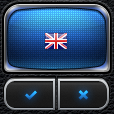
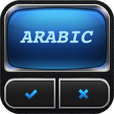
changes for submission

diff --git a/wordrace/Constants.h b/wordrace/Constants.h
@@ -10,8 +10,8 @@
 #define LANGUAGE [NSString stringWithFormat:@"turkish"]
 #define BUILDDATABASEMODE NO
 
-#define ALERTVIEW_CANCELBUTTON_TITLE @"حسناً"
-#define ALERTVIEW_ERROR_TITLE @"خطأّ!"
+#define ALERTVIEW_CANCELBUTTON_TITLE @"OK"
+#define ALERTVIEW_ERROR_TITLE @"ERROR!"
 
 #define FACEBOOK_APPID @"107620642677158"
 #define FACEBOOK_APPSECRET @"7b4e98effc1afdafae4abd97a066d363"
@@ -22,45 +22,44 @@
 #define APP_LINK @"http://bit.ly/q2J2Pf"
 #define APP_PICTURE_LINK @"http://bebeksel.net/ingilizceky.jpg"
 
-#define TWITTERMESSAGE @"قمت بإحراز %i على #سباق الكلمات الإنجليزية (%@) ووصلت إلى المستوى %i حمل هن %@"
-#define FACEBOOKMESSAGE @"قمت بإحراز %i على #سباق الكلمات الإنجليزية (%@) ووصلت إلى المستوى %i حمل هن %@"
+#define TWITTERMESSAGE @"I've scored %i on #ifunarabic (%@) and reached level %i. Download here - %@"
+#define FACEBOOKMESSAGE @"I've scored %i on #ifunarabic (%@) and reached level %i. Download here - %@"
 #define FACEBOOKDESCRIPTION @""
 
-#define WELCOMEVC_GAMENAME @"سباق الكلمة الإنجليزية"
-#define WELCOMEVC_PLAYBUTTON_TITLE @"العب"
-#define WELCOMEVC_LEVELBUTTON_TITLE @"اختر المستوى"
-#define WELCOMEVC_SCORESBUTTON_TITLE @"المتصدرون"
+#define WELCOMEVC_GAMENAME @"iFun Arabic"
+#define WELCOMEVC_PLAYBUTTON_TITLE @"Play"
+#define WELCOMEVC_LEVELBUTTON_TITLE @"Level"
+#define WELCOMEVC_SCORESBUTTON_TITLE @"Leaderboard"
 
-#define SELECTLEVEL_NAVIGATIONBAR_TITLE @"اختر المستوى"
-#define SELECTLEVEL_LEVEL_TITLE @"مستوى"
+#define SELECTLEVEL_NAVIGATIONBAR_TITLE @"Choose Level"
+#define SELECTLEVEL_LEVEL_TITLE @"Level"
 
-#define LEADERBOARD_NAVIGATIONBAR_TITLE @"المتصدرون"
+#define LEADERBOARD_NAVIGATIONBAR_TITLE @"Leaderboard"
 
-#define GAMEMODE_NAVIGATIONBAR_TITLE @"وضعية اللعبة"
-#define GAMEMODE_THREELIVES_TITLE @"الثلاثة أرواح"
-#define GAMEMODE_VSTHECLOCK_TITLE @"ضد الساعة"
-#define GAMEMODE_SUDDENDEATH_TITLE @"الموت المفاجئ"
+#define GAMEMODE_NAVIGATIONBAR_TITLE @"Game Mode"
+#define GAMEMODE_THREELIVES_TITLE @"Three Lives"
+#define GAMEMODE_VSTHECLOCK_TITLE @"VS The Clock"
+#define GAMEMODE_SUDDENDEATH_TITLE @"Sudden Death"
 
-#define PAUSEVC_NAVIGATIONBAR_TITLE @"إيقاف مؤقت"
-#define PAUSEVC_RESUME_TITLE @"استئناف"
-#define PAUSEVC_RESTART_TITLE @"إعادة البدء"
-#define PAUSEVC_GOTOMAINMENU_TITLE @"القائمة الرئيسية"
+#define PAUSEVC_NAVIGATIONBAR_TITLE @"Pause"
+#define PAUSEVC_RESUME_TITLE @"Resume"
+#define PAUSEVC_RESTART_TITLE @"Restart"
+#define PAUSEVC_GOTOMAINMENU_TITLE @"Main Menu"
 
-#define GAMEOVER_NAVIGATIONBAR_TITLE @"انتهت اللعبة"
-#define GAMEOVER_NAMELABEL_TITLE @"الاسم"
-#define GAMEOVER_SCORELABEL_TITLE @"النقاط"
-#define GAMEOVER_HIGHSCORELABEL_TITLE @"نقاط عالية"
-#define GAMEOVER_RESTARTLABEL_TITLE @"إعادة البدء"
-#define GAMEOVER_SCORESLABEL_TITLE @"المتصدرون"
-#define GAMEOVER_GOTOMAINMENULABEL_TITLE @"القائمة الرئيسية"
-#define GAMEOVER_MOREGAMESLABEL_TITLE @"ألعاب أخرى"
-#define GAMEOVER_SHARED_ON_FACEBOOK_ALERT_MESSAGE @"تمت مشاركته على الفيسبوك"
-#define GAMEOVER_SHARED_ON_TWITTER_ALERT_MESSAGE @"تمت مشاركته على تويتر"
+#define GAMEOVER_NAVIGATIONBAR_TITLE @"Game Over"
+#define GAMEOVER_NAMELABEL_TITLE @"Name"
+#define GAMEOVER_SCORELABEL_TITLE @"Score"
+#define GAMEOVER_HIGHSCORELABEL_TITLE @"High Score"
+#define GAMEOVER_RESTARTLABEL_TITLE @"Restart"
+#define GAMEOVER_SCORESLABEL_TITLE @"Leaderboard"
+#define GAMEOVER_GOTOMAINMENULABEL_TITLE @"Main Menu"
+#define GAMEOVER_MOREGAMESLABEL_TITLE @"Other Games"
+#define GAMEOVER_SHARED_ON_FACEBOOK_ALERT_MESSAGE @"Shared on Facebook"
+#define GAMEOVER_SHARED_ON_TWITTER_ALERT_MESSAGE @"Shared on Twitter"
 
-#define LEADERBOARD_THREELIVES_ID @"wordraceforarabsthreelives"
-#define LEADERBOARD_VSTHECLOCK_ID @"wordraceforarabsvstheclock"
-#define LEADERBOARD_SUDDENDEATH_ID @"wordraceforarabssuddendeath"
-
+#define LEADERBOARD_THREELIVES_ID @"ifunarabicthreelives"
+#define LEADERBOARD_VSTHECLOCK_ID @"ifunarabicvstheclock"
+#define LEADERBOARD_SUDDENDEATH_ID @"ifunarabicsuddendeath"
 
 
 
